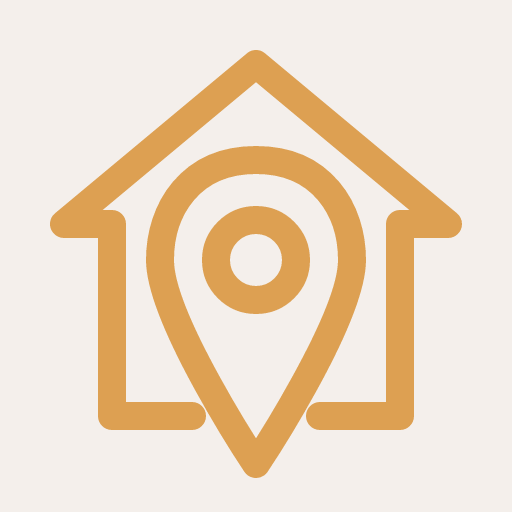
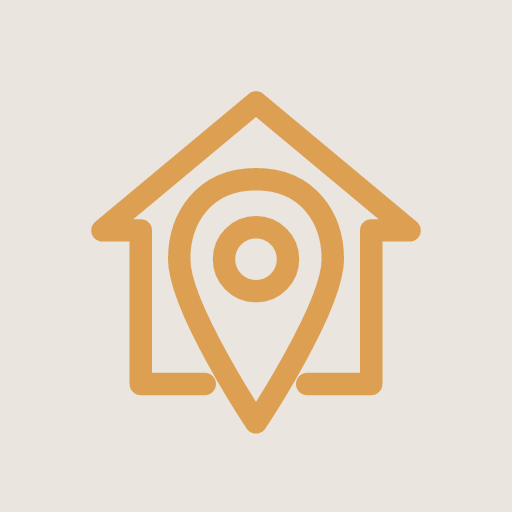
Updates

diff --git a/+not-found.html b/+not-found.html
@@ -378,5 +378,5 @@ input::-webkit-search-cancel-button,input::-webkit-search-decoration,input::-web
 @keyframes r-1pzkwqh{0%{transform:translateY(100%);}100%{transform:translateY(0%);}}
 @keyframes r-imtty0{0%{opacity:0;}100%{opacity:1;}}
 @keyframes r-q67da2{0%{transform:translateX(-100%);}100%{transform:translateX(400%);}}
-@keyframes r-t2lo5v{0%{opacity:1;}100%{opacity:0;}}</style><script type="module">globalThis.__EXPO_ROUTER_HYDRATE__=true;</script><link rel="icon" href="/move-app/favicon.ico" /></head><body><div id="root"><div class="css-g5y9jx r-13awgt0"></div></div><script src="/move-app/_expo/static/js/web/entry-daa58899f84668904ef7942df5d3c25f.js" defer></script>
+@keyframes r-t2lo5v{0%{opacity:1;}100%{opacity:0;}}</style><script type="module">globalThis.__EXPO_ROUTER_HYDRATE__=true;</script><link rel="icon" href="/move-app/favicon.ico" /></head><body><div id="root"><div class="css-g5y9jx r-13awgt0"></div></div><script src="/move-app/_expo/static/js/web/entry-b7186d52e52a6d5a57e34a2466694e79.js" defer></script>
 </body></html>

diff --git a/404.html b/404.html
@@ -378,5 +378,5 @@ input::-webkit-search-cancel-button,input::-webkit-search-decoration,input::-web
 @keyframes r-1pzkwqh{0%{transform:translateY(100%);}100%{transform:translateY(0%);}}
 @keyframes r-imtty0{0%{opacity:0;}100%{opacity:1;}}
 @keyframes r-q67da2{0%{transform:translateX(-100%);}100%{transform:translateX(400%);}}
-@keyframes r-t2lo5v{0%{opacity:1;}100%{opacity:0;}}</style><script type="module">globalThis.__EXPO_ROUTER_HYDRATE__=true;</script><link rel="icon" href="/move-app/favicon.ico" /></head><body><div id="root"><div class="css-g5y9jx r-13awgt0"><!--$--><!--/$--></div></div><script src="/move-app/_expo/static/js/web/entry-daa58899f84668904ef7942df5d3c25f.js" defer></script>
+@keyframes r-t2lo5v{0%{opacity:1;}100%{opacity:0;}}</style><script type="module">globalThis.__EXPO_ROUTER_HYDRATE__=true;</script><link rel="icon" href="/move-app/favicon.ico" /></head><body><div id="root"><div class="css-g5y9jx r-13awgt0"><!--$--><!--/$--></div></div><script src="/move-app/_expo/static/js/web/entry-b7186d52e52a6d5a57e34a2466694e79.js" defer></script>
 </body></html>

diff --git a/_sitemap.html b/_sitemap.html
@@ -378,5 +378,5 @@ input::-webkit-search-cancel-button,input::-webkit-search-decoration,input::-web
 @keyframes r-1pzkwqh{0%{transform:translateY(100%);}100%{transform:translateY(0%);}}
 @keyframes r-imtty0{0%{opacity:0;}100%{opacity:1;}}
 @keyframes r-q67da2{0%{transform:translateX(-100%);}100%{transform:translateX(400%);}}
-@keyframes r-t2lo5v{0%{opacity:1;}100%{opacity:0;}}</style><script type="module">globalThis.__EXPO_ROUTER_HYDRATE__=true;</script><link rel="icon" href="/move-app/favicon.ico" /></head><body><div id="root"><div class="css-g5y9jx r-13awgt0"></div></div><script src="/move-app/_expo/static/js/web/entry-daa58899f84668904ef7942df5d3c25f.js" defer></script>
+@keyframes r-t2lo5v{0%{opacity:1;}100%{opacity:0;}}</style><script type="module">globalThis.__EXPO_ROUTER_HYDRATE__=true;</script><link rel="icon" href="/move-app/favicon.ico" /></head><body><div id="root"><div class="css-g5y9jx r-13awgt0"></div></div><script src="/move-app/_expo/static/js/web/entry-b7186d52e52a6d5a57e34a2466694e79.js" defer></script>
 </body></html>

diff --git a/filters.html b/filters.html
@@ -378,5 +378,5 @@ input::-webkit-search-cancel-button,input::-webkit-search-decoration,input::-web
 @keyframes r-1pzkwqh{0%{transform:translateY(100%);}100%{transform:translateY(0%);}}
 @keyframes r-imtty0{0%{opacity:0;}100%{opacity:1;}}
 @keyframes r-q67da2{0%{transform:translateX(-100%);}100%{transform:translateX(400%);}}
-@keyframes r-t2lo5v{0%{opacity:1;}100%{opacity:0;}}</style><script type="module">globalThis.__EXPO_ROUTER_HYDRATE__=true;</script><link rel="icon" href="/move-app/favicon.ico" /></head><body><div id="root"><div class="css-g5y9jx r-13awgt0"><!--$--><!--/$--></div></div><script src="/move-app/_expo/static/js/web/entry-daa58899f84668904ef7942df5d3c25f.js" defer></script>
+@keyframes r-t2lo5v{0%{opacity:1;}100%{opacity:0;}}</style><script type="module">globalThis.__EXPO_ROUTER_HYDRATE__=true;</script><link rel="icon" href="/move-app/favicon.ico" /></head><body><div id="root"><div class="css-g5y9jx r-13awgt0"><!--$--><!--/$--></div></div><script src="/move-app/_expo/static/js/web/entry-b7186d52e52a6d5a57e34a2466694e79.js" defer></script>
 </body></html>

diff --git a/index.html b/index.html
@@ -378,5 +378,5 @@ input::-webkit-search-cancel-button,input::-webkit-search-decoration,input::-web
 @keyframes r-1pzkwqh{0%{transform:translateY(100%);}100%{transform:translateY(0%);}}
 @keyframes r-imtty0{0%{opacity:0;}100%{opacity:1;}}
 @keyframes r-q67da2{0%{transform:translateX(-100%);}100%{transform:translateX(400%);}}
-@keyframes r-t2lo5v{0%{opacity:1;}100%{opacity:0;}}</style><script type="module">globalThis.__EXPO_ROUTER_HYDRATE__=true;</script><link rel="icon" href="/move-app/favicon.ico" /></head><body><div id="root"><div class="css-g5y9jx r-13awgt0"><!--$--><!--/$--></div></div><script src="/move-app/_expo/static/js/web/entry-daa58899f84668904ef7942df5d3c25f.js" defer></script>
+@keyframes r-t2lo5v{0%{opacity:1;}100%{opacity:0;}}</style><script type="module">globalThis.__EXPO_ROUTER_HYDRATE__=true;</script><link rel="icon" href="/move-app/favicon.ico" /></head><body><div id="root"><div class="css-g5y9jx r-13awgt0"><!--$--><!--/$--></div></div><script src="/move-app/_expo/static/js/web/entry-b7186d52e52a6d5a57e34a2466694e79.js" defer></script>
 </body></html>

diff --git a/review/[id].html b/review/[id].html
@@ -378,5 +378,5 @@ input::-webkit-search-cancel-button,input::-webkit-search-decoration,input::-web
 @keyframes r-1pzkwqh{0%{transform:translateY(100%);}100%{transform:translateY(0%);}}
 @keyframes r-imtty0{0%{opacity:0;}100%{opacity:1;}}
 @keyframes r-q67da2{0%{transform:translateX(-100%);}100%{transform:translateX(400%);}}
-@keyframes r-t2lo5v{0%{opacity:1;}100%{opacity:0;}}</style><script type="module">globalThis.__EXPO_ROUTER_HYDRATE__=true;</script><link rel="icon" href="/move-app/favicon.ico" /></head><body><div id="root"><div class="css-g5y9jx r-13awgt0"><!--$--><!--/$--></div></div><script src="/move-app/_expo/static/js/web/entry-daa58899f84668904ef7942df5d3c25f.js" defer></script>
+@keyframes r-t2lo5v{0%{opacity:1;}100%{opacity:0;}}</style><script type="module">globalThis.__EXPO_ROUTER_HYDRATE__=true;</script><link rel="icon" href="/move-app/favicon.ico" /></head><body><div id="root"><div class="css-g5y9jx r-13awgt0"><!--$--><!--/$--></div></div><script src="/move-app/_expo/static/js/web/entry-b7186d52e52a6d5a57e34a2466694e79.js" defer></script>
 </body></html>

diff --git a/settings.html b/settings.html
@@ -378,5 +378,5 @@ input::-webkit-search-cancel-button,input::-webkit-search-decoration,input::-web
 @keyframes r-1pzkwqh{0%{transform:translateY(100%);}100%{transform:translateY(0%);}}
 @keyframes r-imtty0{0%{opacity:0;}100%{opacity:1;}}
 @keyframes r-q67da2{0%{transform:translateX(-100%);}100%{transform:translateX(400%);}}
-@keyframes r-t2lo5v{0%{opacity:1;}100%{opacity:0;}}</style><script type="module">globalThis.__EXPO_ROUTER_HYDRATE__=true;</script><link rel="icon" href="/move-app/favicon.ico" /></head><body><div id="root"><div class="css-g5y9jx r-13awgt0"><!--$--><!--/$--></div></div><script src="/move-app/_expo/static/js/web/entry-daa58899f84668904ef7942df5d3c25f.js" defer></script>
+@keyframes r-t2lo5v{0%{opacity:1;}100%{opacity:0;}}</style><script type="module">globalThis.__EXPO_ROUTER_HYDRATE__=true;</script><link rel="icon" href="/move-app/favicon.ico" /></head><body><div id="root"><div class="css-g5y9jx r-13awgt0"><!--$--><!--/$--></div></div><script src="/move-app/_expo/static/js/web/entry-b7186d52e52a6d5a57e34a2466694e79.js" defer></script>
 </body></html>

diff --git a/sort.html b/sort.html
@@ -378,5 +378,5 @@ input::-webkit-search-cancel-button,input::-webkit-search-decoration,input::-web
 @keyframes r-1pzkwqh{0%{transform:translateY(100%);}100%{transform:translateY(0%);}}
 @keyframes r-imtty0{0%{opacity:0;}100%{opacity:1;}}
 @keyframes r-q67da2{0%{transform:translateX(-100%);}100%{transform:translateX(400%);}}
-@keyframes r-t2lo5v{0%{opacity:1;}100%{opacity:0;}}</style><script type="module">globalThis.__EXPO_ROUTER_HYDRATE__=true;</script><link rel="icon" href="/move-app/favicon.ico" /></head><body><div id="root"><div class="css-g5y9jx r-13awgt0"><!--$--><!--/$--></div></div><script src="/move-app/_expo/static/js/web/entry-daa58899f84668904ef7942df5d3c25f.js" defer></script>
+@keyframes r-t2lo5v{0%{opacity:1;}100%{opacity:0;}}</style><script type="module">globalThis.__EXPO_ROUTER_HYDRATE__=true;</script><link rel="icon" href="/move-app/favicon.ico" /></head><body><div id="root"><div class="css-g5y9jx r-13awgt0"><!--$--><!--/$--></div></div><script src="/move-app/_expo/static/js/web/entry-b7186d52e52a6d5a57e34a2466694e79.js" defer></script>
 </body></html>